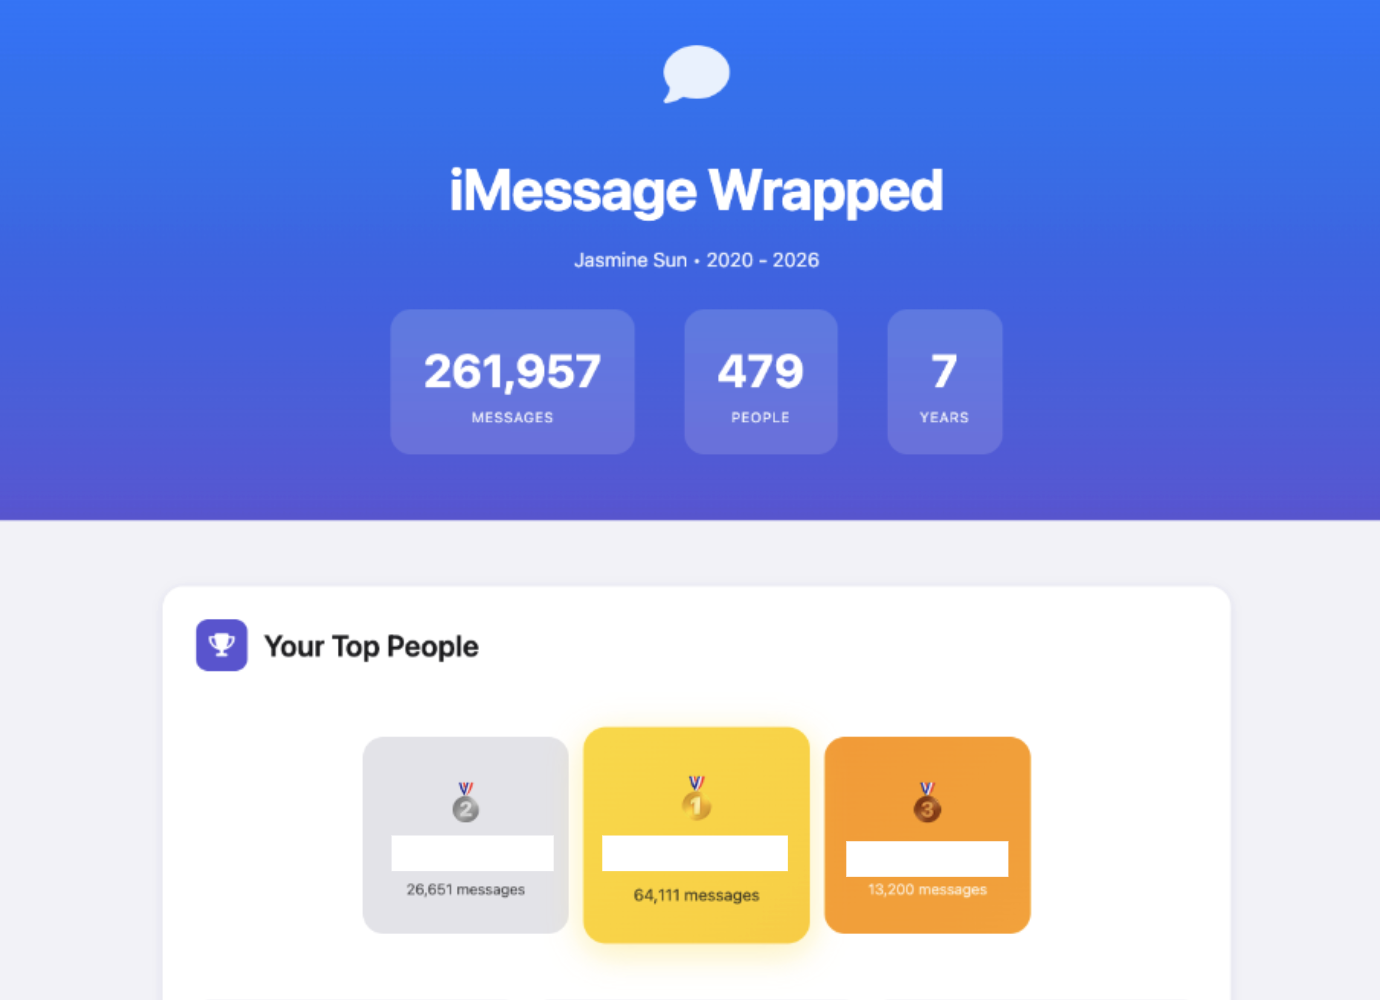
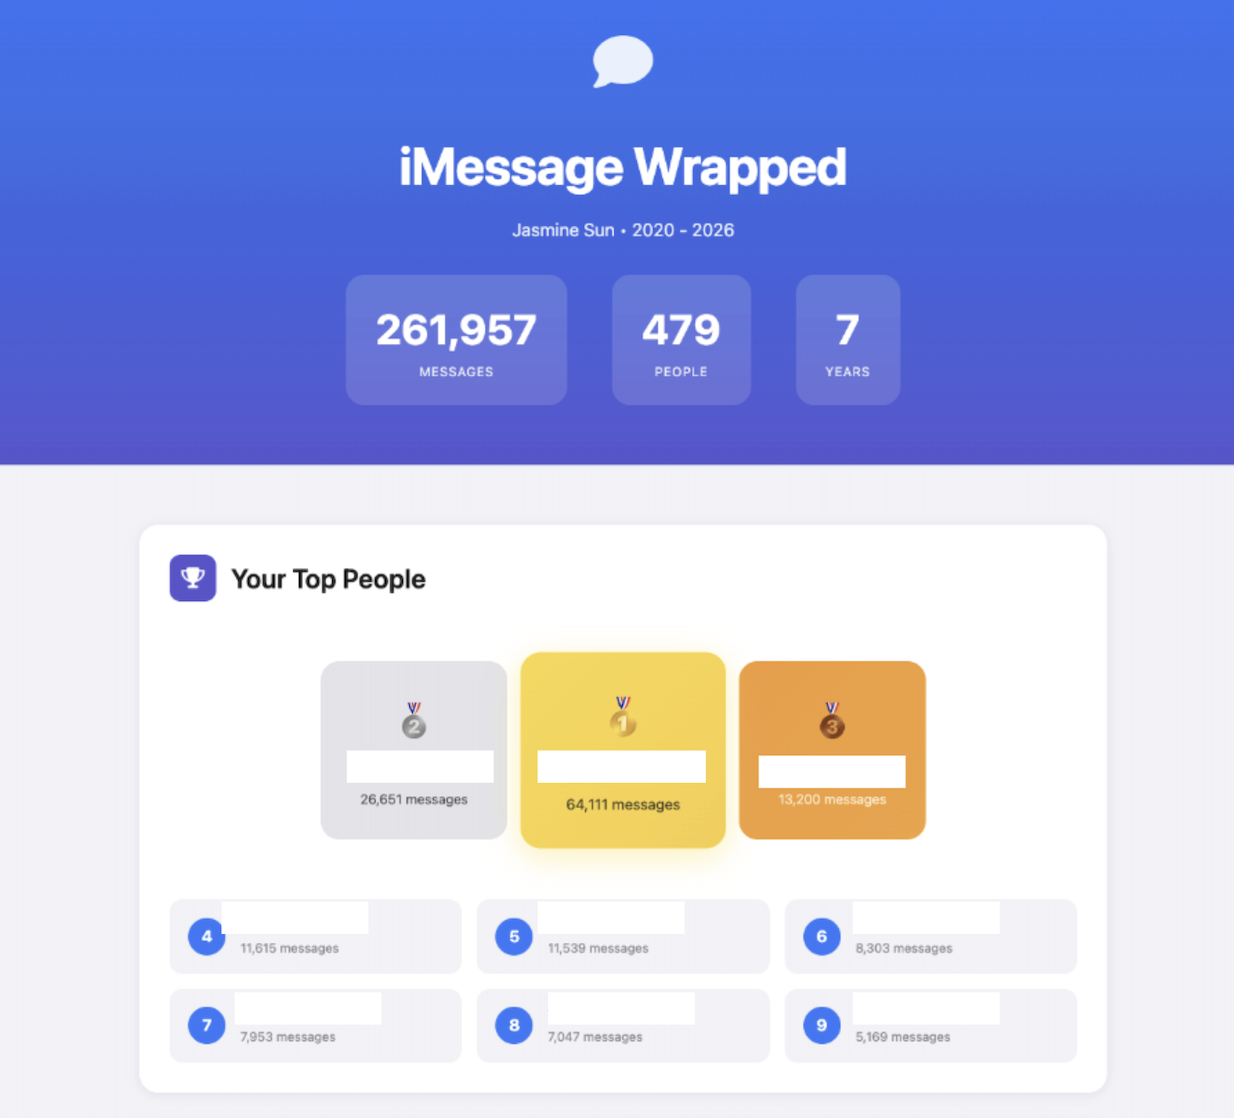
Update preview images and add vocab evolution screenshot

diff --git a/README.md b/README.md
@@ -15,6 +15,8 @@ Generate a beautiful, Spotify Wrapped-style analysis of your iMessage history. S
 - **Microgenres**: Categorize your contacts (Debate Partners, Hype People, 3am Philosophers, etc.)
 - **Content Analysis**: Sentiment, question ratios, and conversation styles per contact
 
+![Vocabulary Evolution](vocab-preview.png)
+
 ## Requirements
 
 - **macOS** (iMessage stores its database locally on Mac)
